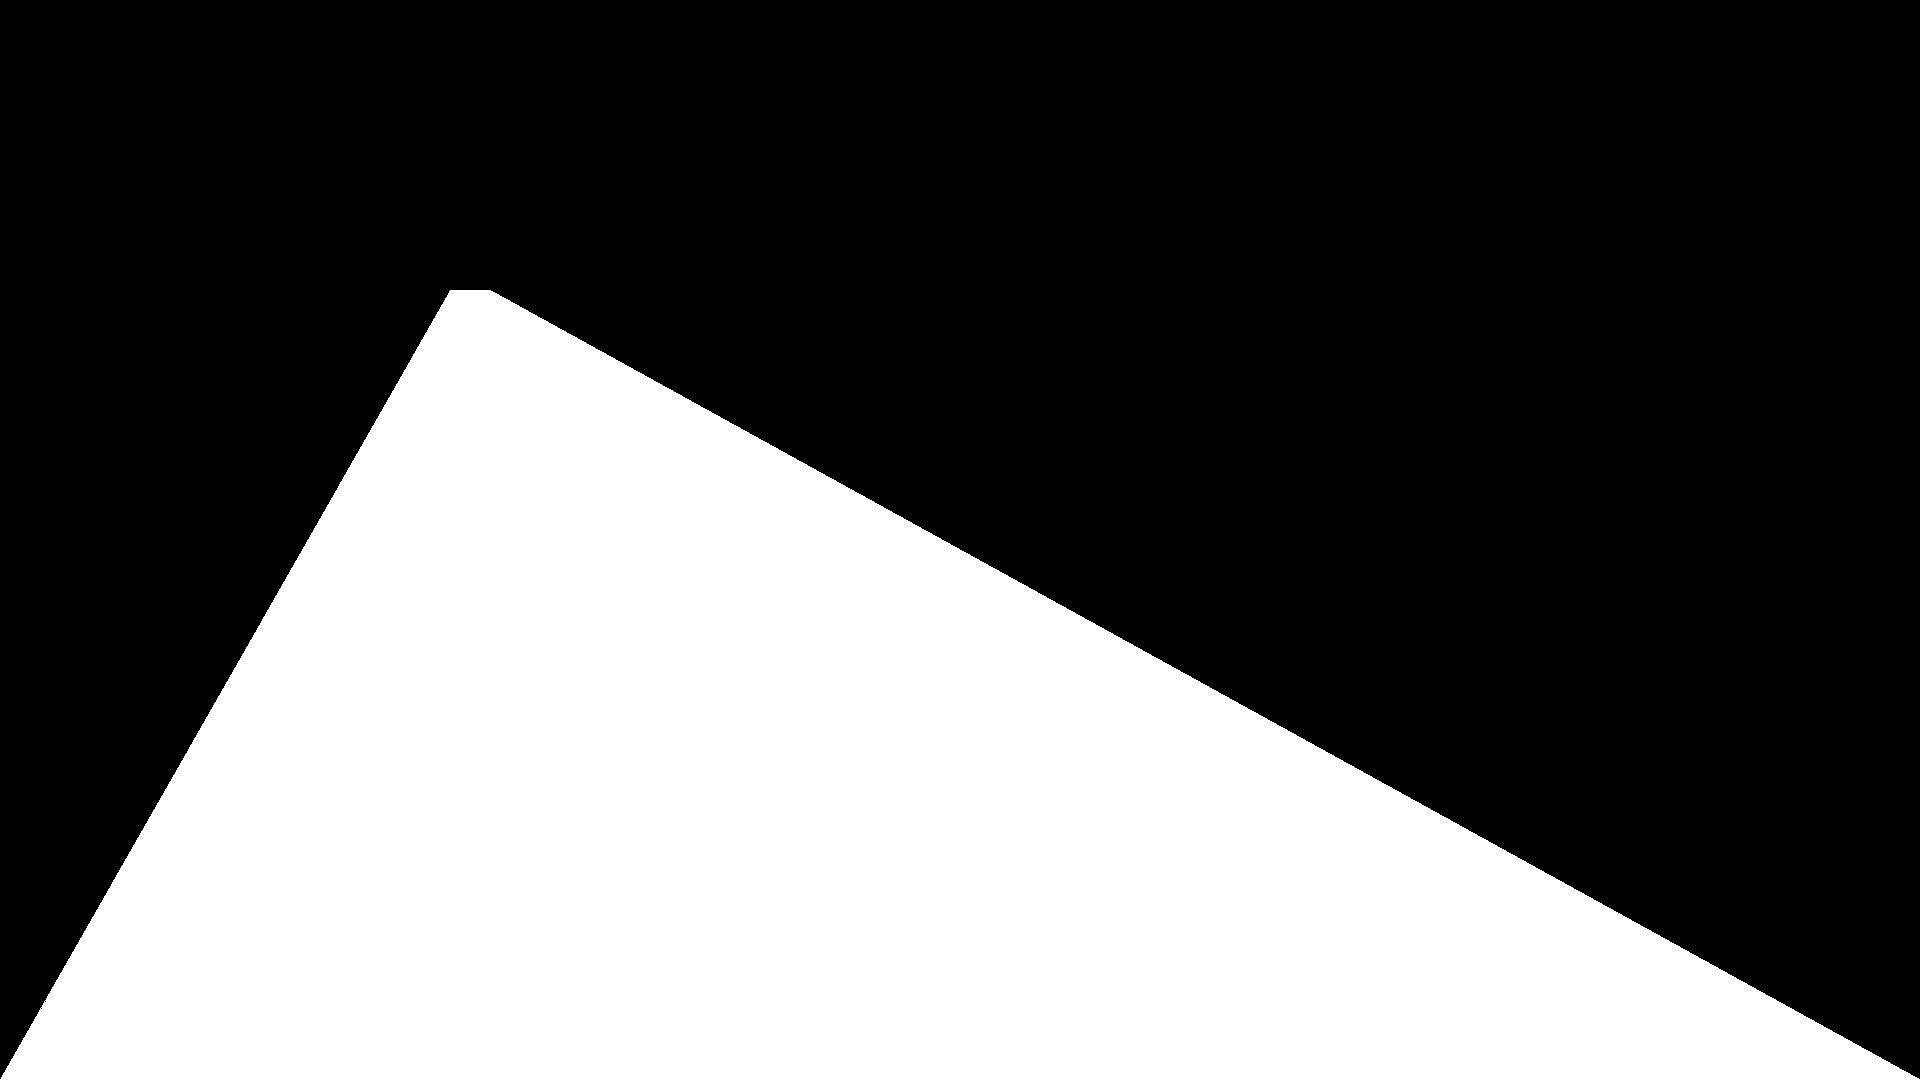
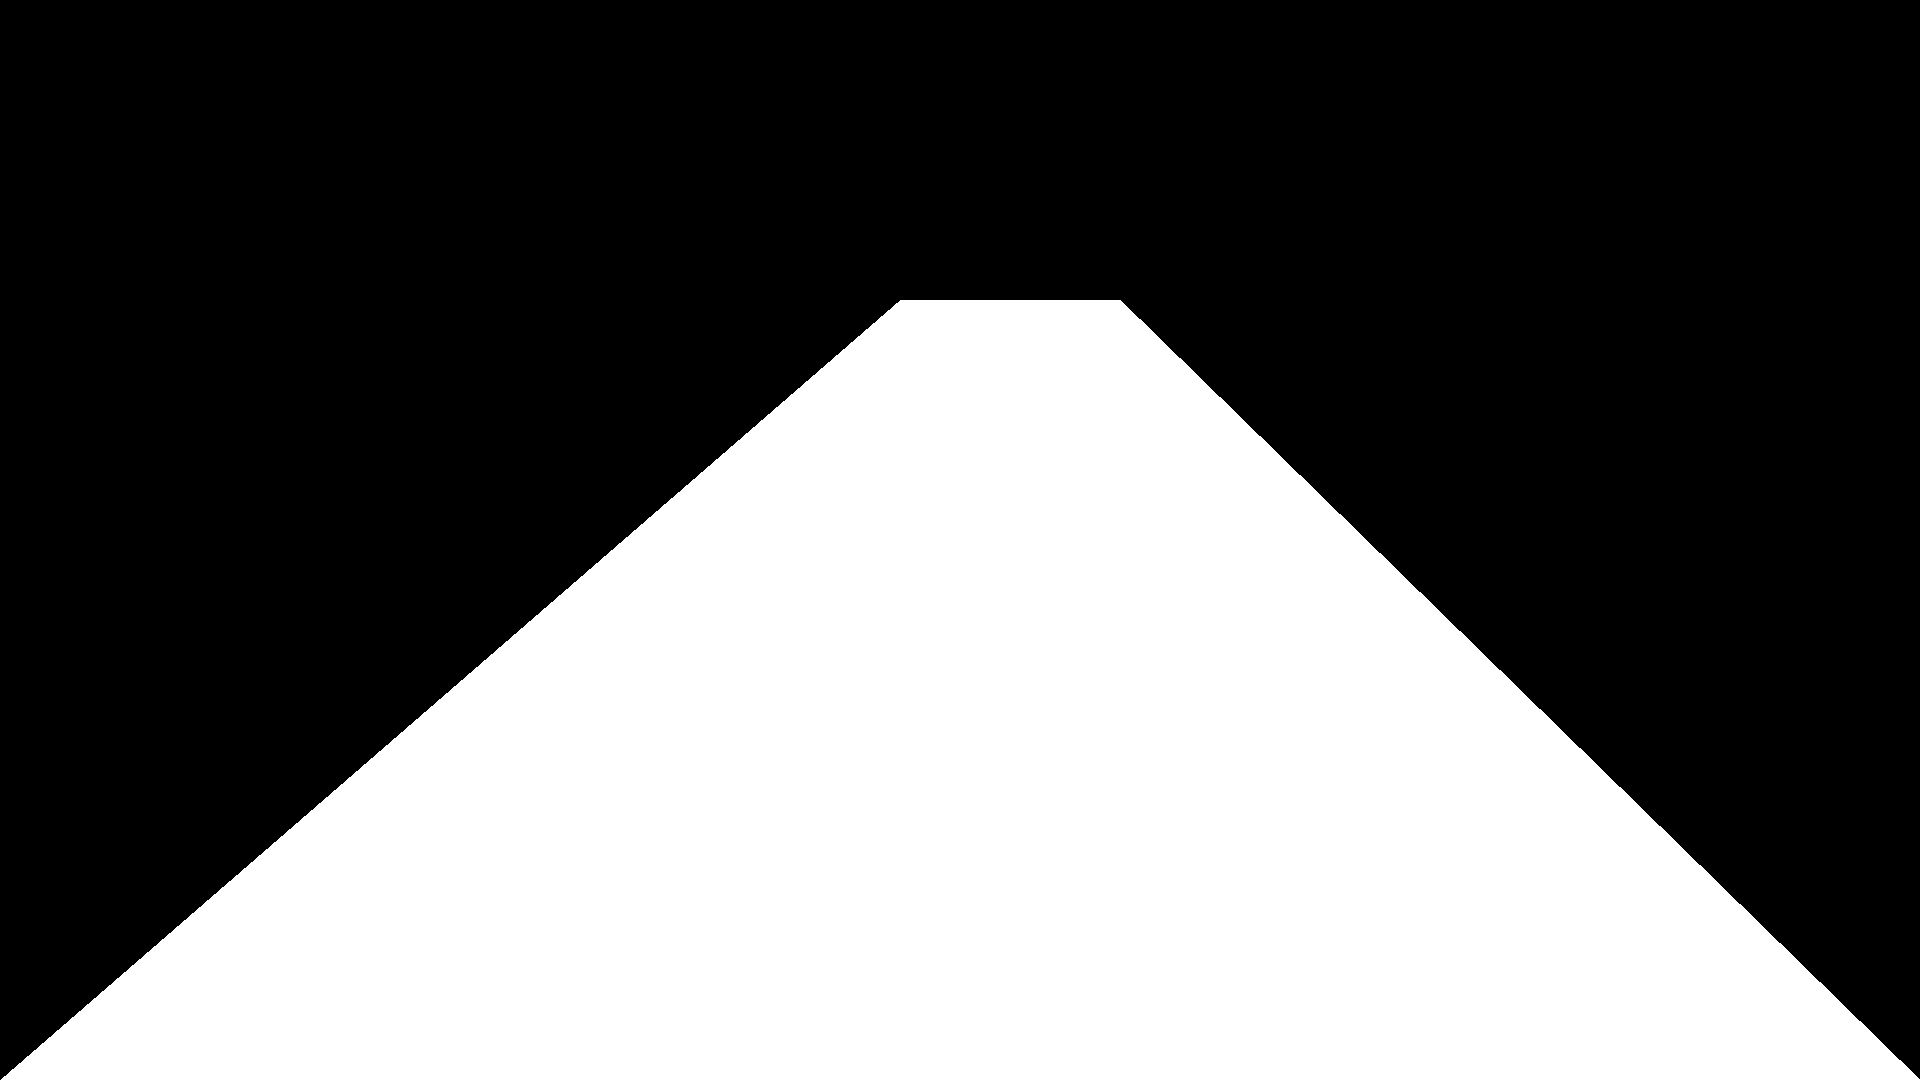
Create new branch

Changed region(s): [[0.0, 0.2444, 1.0, 1.0]]

diff --git a/research/region_of_interest_1.py b/research/region_of_interest_1.py
@@ -1,0 +1,33 @@
+import cv2
+import numpy as np
+import matplotlib.pyplot as plt
+import matplotlib.image as mpimg
+
+#input = "solidWhiteRight.jpg"
+input = "20190312183128_1.jpg"
+
+img = mpimg.imread(input) # RGB
+
+if len(img.shape) > 2:
+    img_grey = cv2.cvtColor(img, cv2.COLOR_BGR2GRAY)
+else:
+    img_grey = img
+
+# defining a 3 channel or 1 channel color to fill the mask with depending on the input image
+if len(img.shape) > 2:
+    channel_count = img.shape[2]  # i.e. 3 or 4 depending on your image
+    ignore_mask_color = (255,) * channel_count
+else:
+    ignore_mask_color = 255
+
+mask = np.zeros_like(img)
+imshape = img.shape
+vertices = np.array([[(0,imshape[0]),(900,300),(1120,300),(imshape[1],imshape[0])]],dtype=np.int32)
+cv2.fillPoly(mask, vertices, ignore_mask_color)
+
+# write and show
+cv2.imwrite('OUTPUT.jpg', mask)
+print('saved output')
+cv2.imshow('mask', mask)
+cv2.waitKey(0)
+cv2.destroyAllWindows()

diff --git a/line_detection/line_detection.py b/line_detection/line_detection.py
@@ -28,7 +28,7 @@ def process(input='', output='', silent=False):
             ignore_mask_color = 255
     
         imshape = img.shape
-        vertices = np.array([[(0,imshape[0]),(450,290),(490,290),(imshape[1],imshape[0])]],dtype=np.int32)
+        vertices = np.array([[(0,imshape[0]),(900,300),(1120,300),(imshape[1],imshape[0])]],dtype=np.int32)
         cv2.fillPoly(mask, vertices, ignore_mask_color)
         masked_edges = cv2.bitwise_and(img_edge, mask)
      
@@ -54,8 +54,6 @@ def process(input='', output='', silent=False):
         
         #TODO: return original image with marked lines
         return lines_edges
-    
-
    
     # START
 
